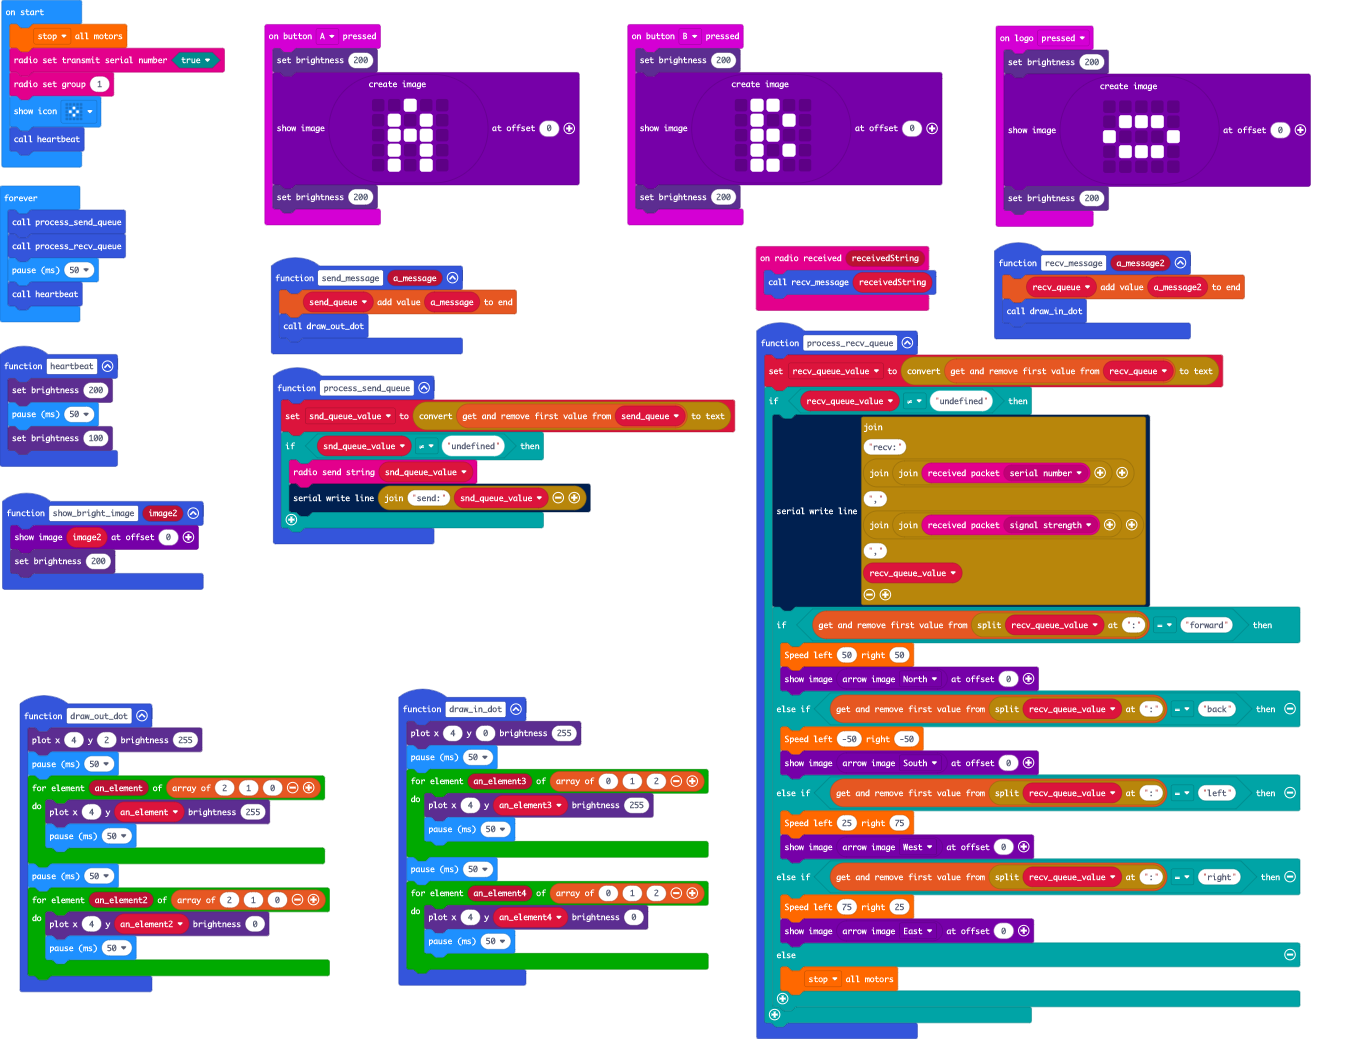
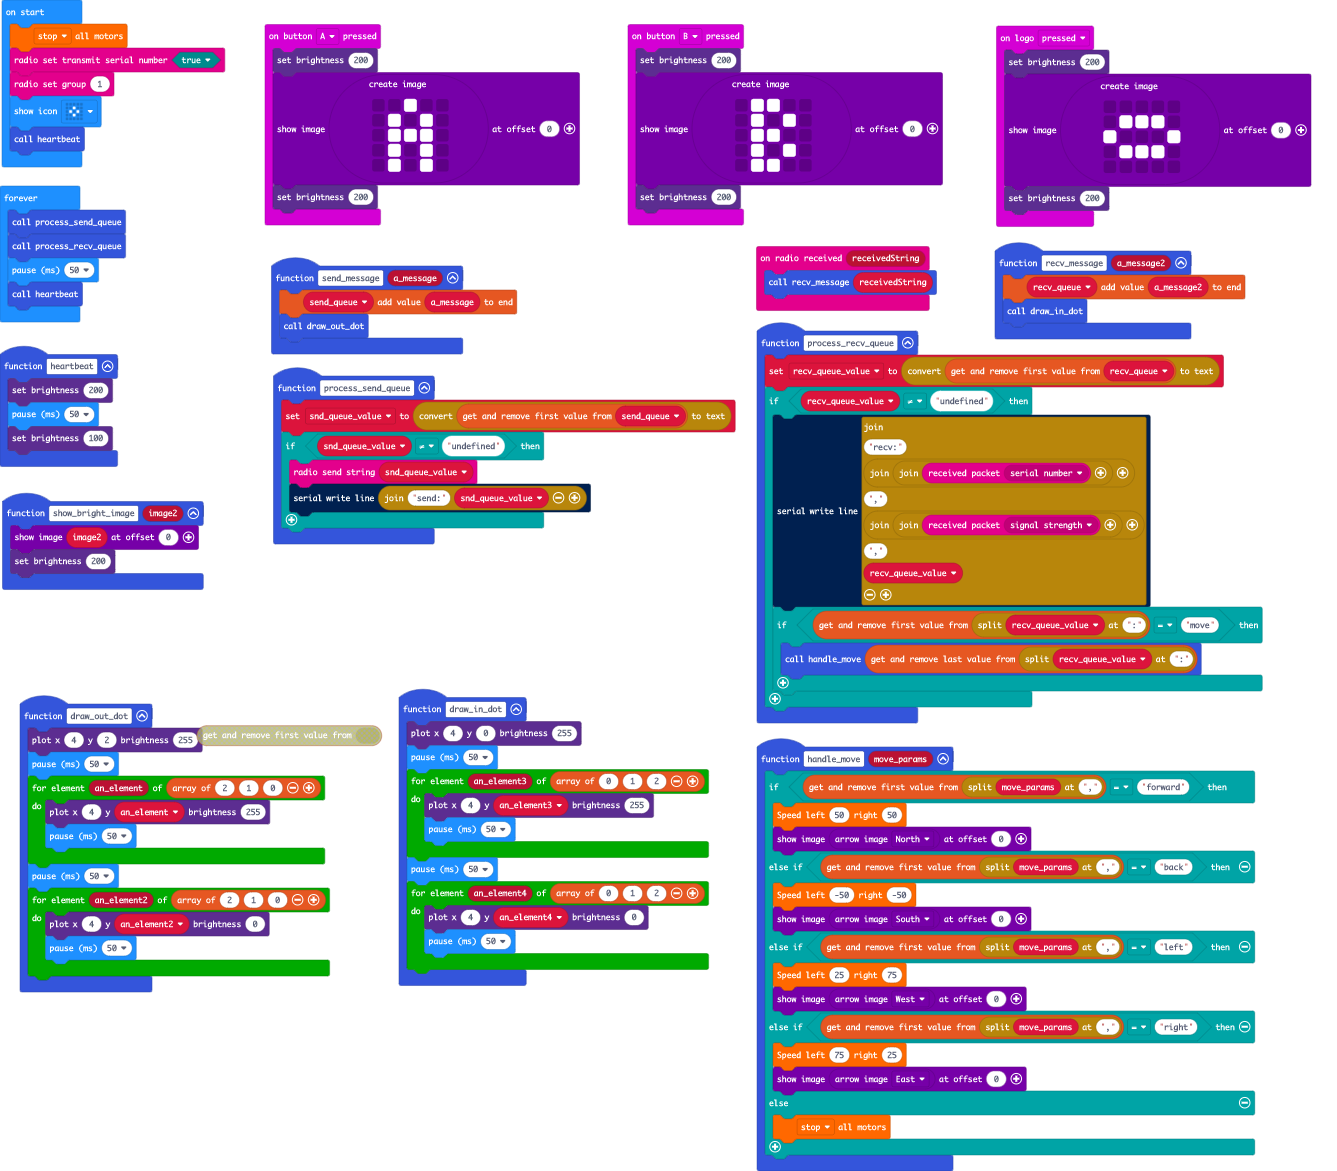
fix receive message parse and added handle_move

diff --git a/main.ts b/main.ts
@@ -50,20 +50,8 @@ function process_recv_queue () {
     recv_queue_value = convertToText(recv_queue.shift())
     if (recv_queue_value != "undefined") {
         serial.writeLine("recv:" + ("" + radio.receivedPacket(RadioPacketProperty.SerialNumber)) + "," + ("" + radio.receivedPacket(RadioPacketProperty.SignalStrength)) + "," + recv_queue_value)
-        if (recv_queue_value.split(":").shift() == "forward") {
-            Rover.MotorRunDual(50, 50)
-            images.arrowImage(ArrowNames.North).showImage(0)
-        } else if (recv_queue_value.split(":").shift() == "back") {
-            Rover.MotorRunDual(-50, -50)
-            images.arrowImage(ArrowNames.South).showImage(0)
-        } else if (recv_queue_value.split(":").shift() == "left") {
-            Rover.MotorRunDual(25, 75)
-            images.arrowImage(ArrowNames.West).showImage(0)
-        } else if (recv_queue_value.split(":").shift() == "right") {
-            Rover.MotorRunDual(75, 25)
-            images.arrowImage(ArrowNames.East).showImage(0)
-        } else {
-            Rover.MotorStopAll(MotorActions.Stop)
+        if (recv_queue_value.split(":").shift() == "move") {
+            handle_move(recv_queue_value.split(":").pop())
         }
     }
 }
@@ -105,6 +93,23 @@ input.onLogoEvent(TouchButtonEvent.Pressed, function () {
         `).showImage(0)
     led.setBrightness(200)
 })
+function handle_move (move_params: string) {
+    if (move_params.split(",").shift() == "forward") {
+        Rover.MotorRunDual(50, 50)
+        images.arrowImage(ArrowNames.North).showImage(0)
+    } else if (move_params.split(",").shift() == "back") {
+        Rover.MotorRunDual(-50, -50)
+        images.arrowImage(ArrowNames.South).showImage(0)
+    } else if (move_params.split(",").shift() == "left") {
+        Rover.MotorRunDual(25, 75)
+        images.arrowImage(ArrowNames.West).showImage(0)
+    } else if (move_params.split(",").shift() == "right") {
+        Rover.MotorRunDual(75, 25)
+        images.arrowImage(ArrowNames.East).showImage(0)
+    } else {
+        Rover.MotorStopAll(MotorActions.Stop)
+    }
+}
 let recv_queue: string[] = []
 let recv_queue_value = ""
 let send_queue: string[] = []
